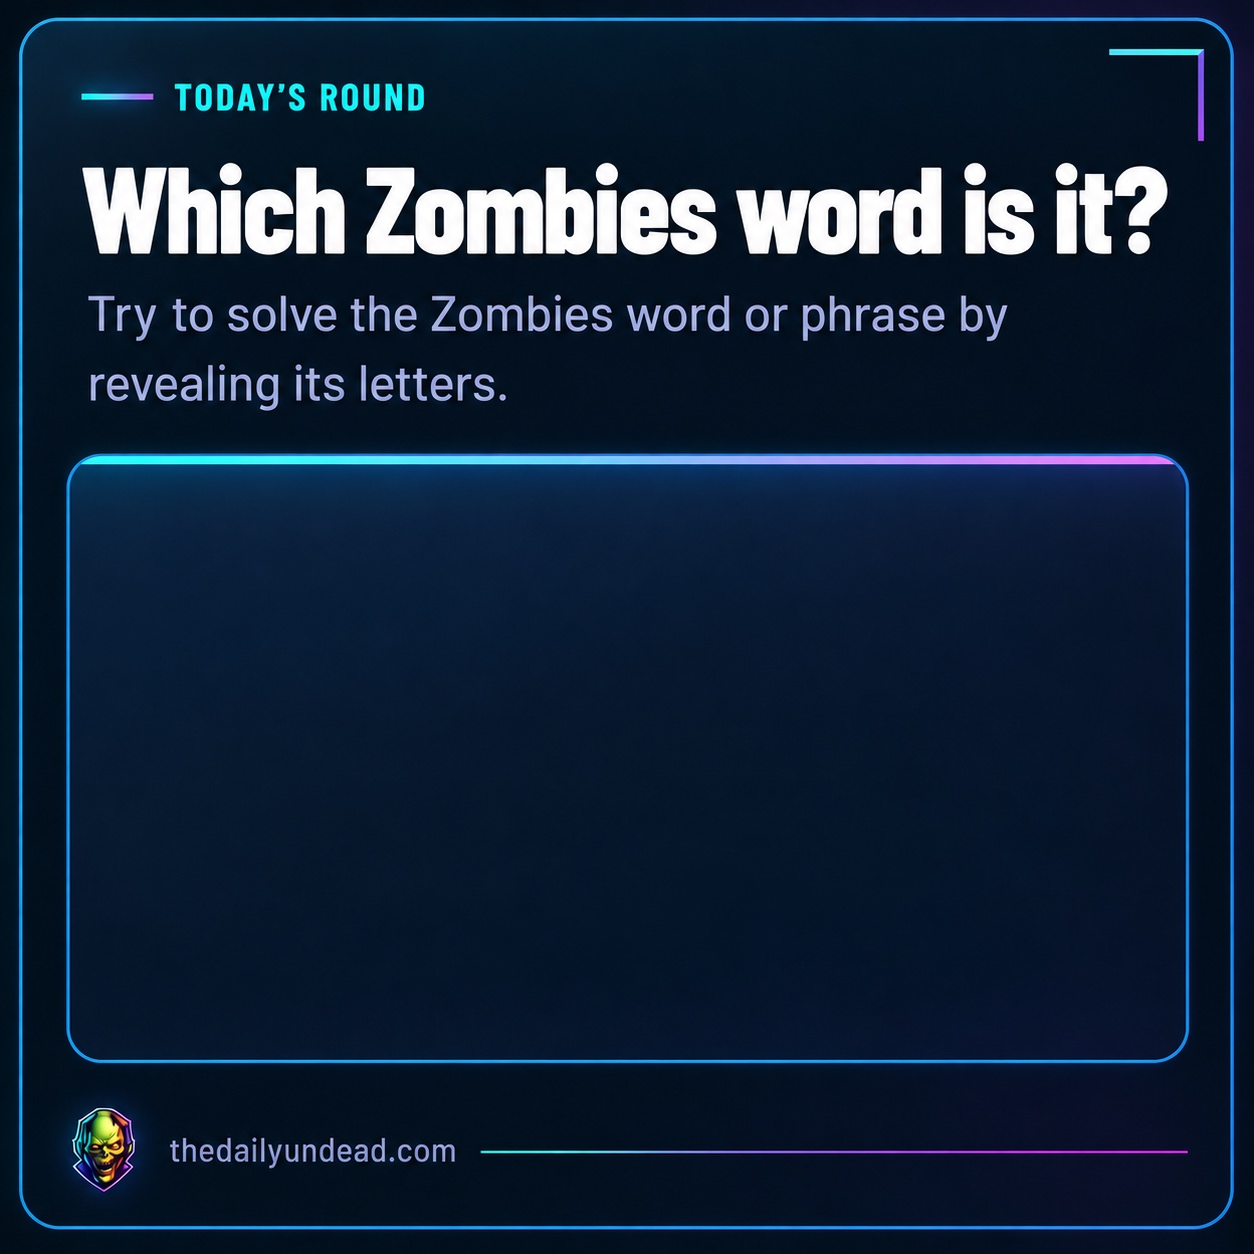
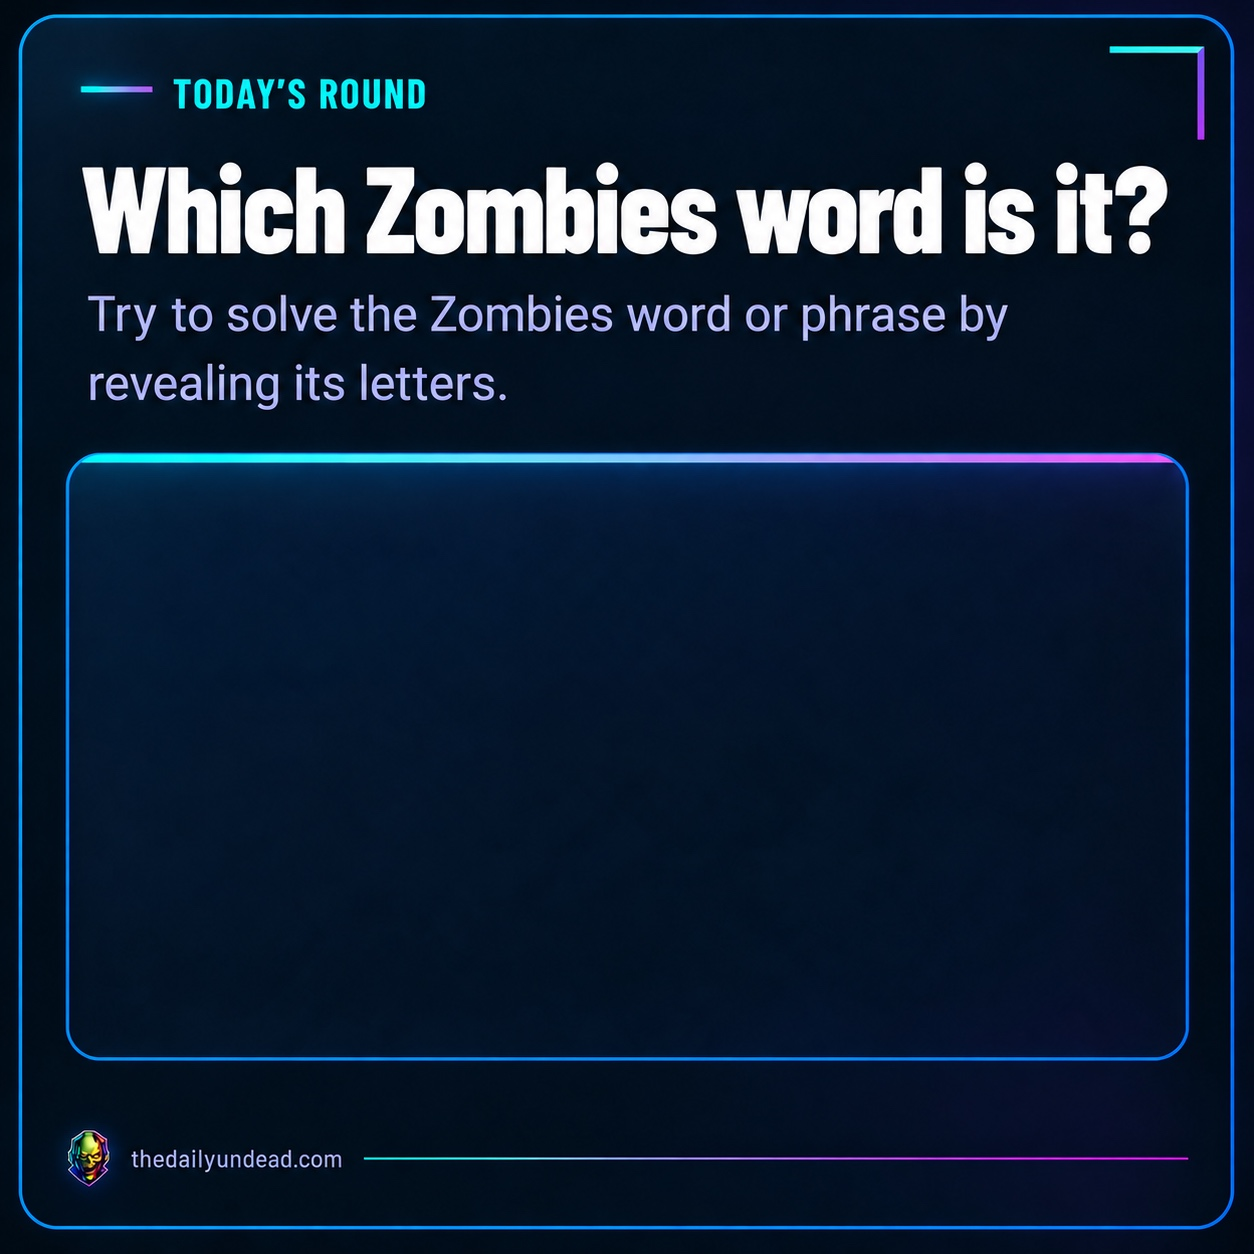
Refine Last Words marketing template

diff --git a/js/marketing.js b/js/marketing.js
@@ -199,7 +199,7 @@ function layoutWordPattern(answer, fontSize, maximumWidth) {
 }
 
 function fitWordPattern(answer) {
-  for (let fontSize = 66; fontSize >= 42; fontSize -= 2) {
+  for (let fontSize = 84; fontSize >= 42; fontSize -= 2) {
     const layout = layoutWordPattern(answer, fontSize, 840);
     const lineHeight = Math.round(fontSize * 1.62);
     if (layout.lines.length <= 3 && layout.lines.length * lineHeight <= 300) {
@@ -261,7 +261,7 @@ async function drawLastWordsImage(answer, initialLetters, category) {
     document.fonts.load("800 66px Barlow Condensed"),
     document.fonts.load("500 44px Barlow"),
   ]);
-  const template = await loadImage("./assets/marketing-last-words-template.jpg?v=20261013-1");
+  const template = await loadImage("./assets/marketing-last-words-template.jpg?v=20261013-2");
   const context = canvas.getContext("2d", { alpha: false });
   context.drawImage(template, 0, 0, canvas.width, canvas.height);
 

diff --git a/marketing.html b/marketing.html
@@ -108,6 +108,6 @@
       </div>
     </dialog>
 
-    <script type="module" src="./js/marketing.js?v=20261013-3"></script>
+    <script type="module" src="./js/marketing.js?v=20261013-4"></script>
   </body>
 </html>
